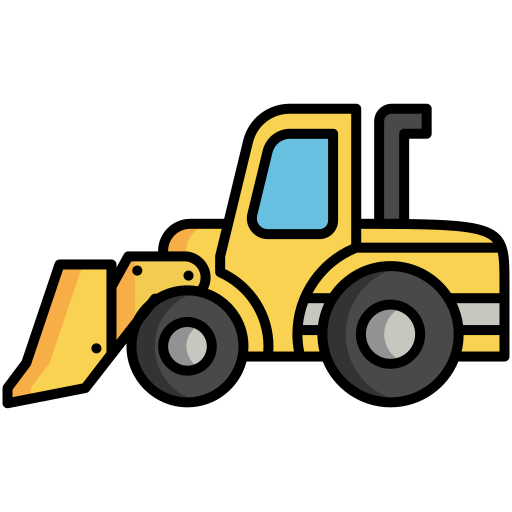
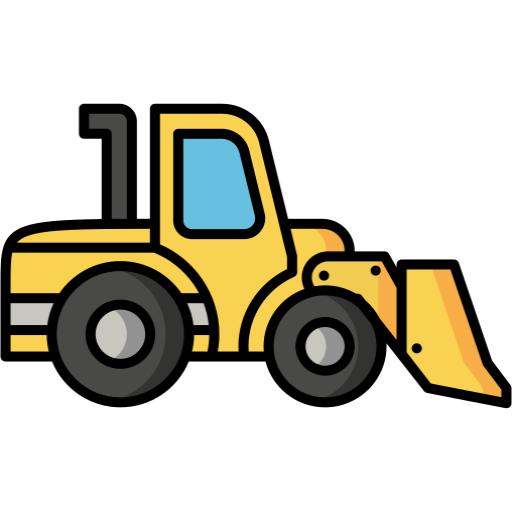
Changes

diff --git a/src/index.css b/src/index.css
@@ -182,10 +182,10 @@ All colors MUST be HSL.
   
   @keyframes rollTruckReverse {
     0% {
-      transform: translateX(calc(100vw + 100px)) scaleX(-1);
+      transform: translateX(calc(100vw + 100px));
     }
     100% {
-      transform: translateX(-100px) scaleX(-1);
+      transform: translateX(-100px);
     }
   }
   
